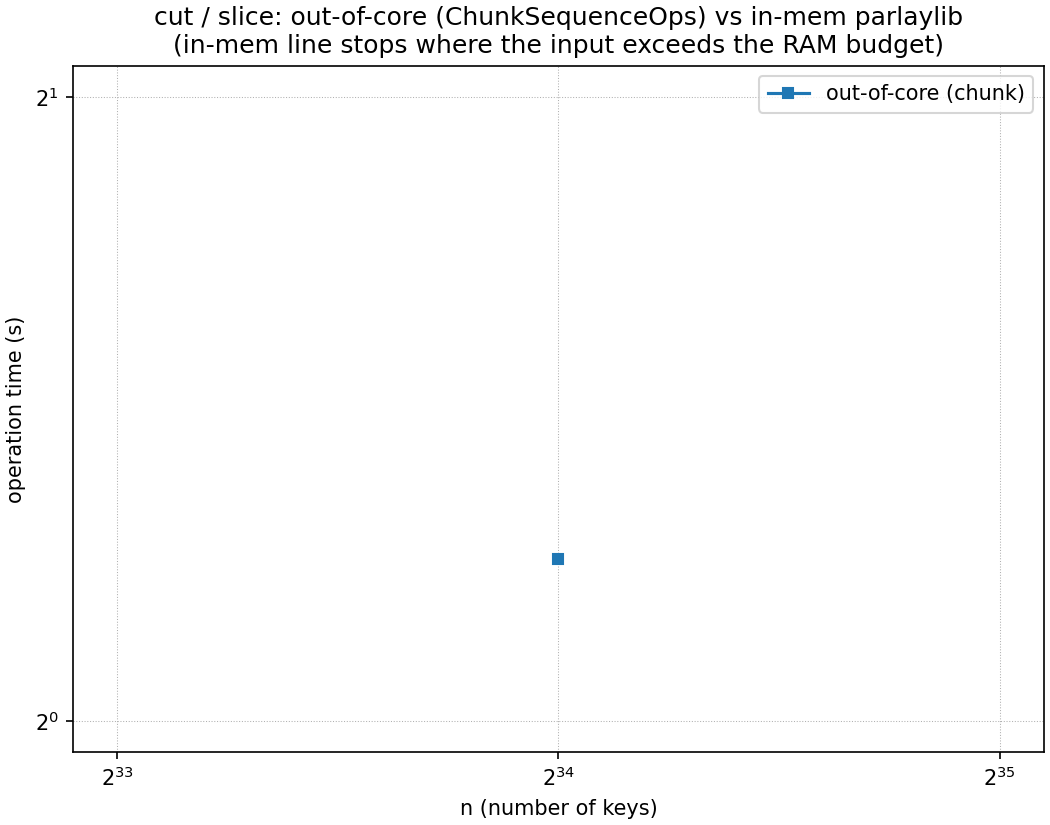
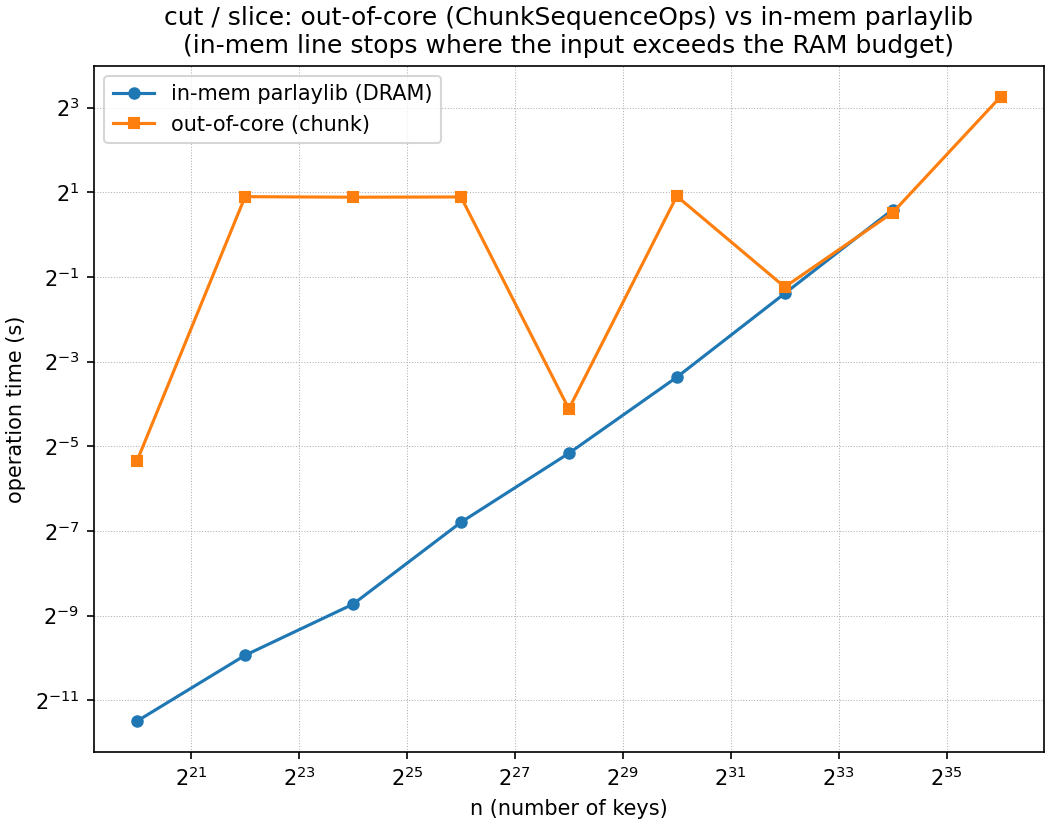
benchmark fix

diff --git a/ChunkSequence/examples/external/chunk_cut.cpp b/ChunkSequence/examples/external/chunk_cut.cpp
@@ -14,7 +14,12 @@
 // Dual-purpose, like the benchmarks and the other examples: prints human-readable
 // results AND a machine-readable "CSV," line that benchmarks/run_benches.py greps.
 // The examples sweep (make bench-examples) times the cut across a sweep of n with
-// the range held at the middle half ([n/4, 3n/4)), so the cut length scales with n.
+// the range held at the middle ~half (k = n/2), so the cut length scales with n.
+// Both endpoints are placed in the MIDDLE of a chunk (offset ELEMS_PER_CHUNK/2),
+// never on a chunk boundary, so every sweep point deterministically exercises the
+// same real seam-rewrite work (see the default computation in main() for why the
+// naive n/4, 3n/4 endpoints alias the chunk grid for power-of-two n and skew the
+// timings).  The in-mem baseline cuts the identical [start, end).
 //
 // Baseline: parlaylib's slice/cut on the same keys in DRAM.  parlay::slice::cut
 // itself is O(1) -- it returns a view, copying nothing -- so timing it alone is
@@ -98,9 +103,31 @@ static std::vector<T> read_in_order(const chunk_seq& seq) {
 
 int main(int argc, char* argv[]) {
     ParseGlobalArguments(argc, argv);
-    const size_t n     = (argc > 1) ? std::stoull(argv[1]) : 1'000'000;
-    const size_t start = (argc > 2) ? std::stoull(argv[2]) : n / 4;
-    const size_t end   = (argc > 3) ? std::stoull(argv[3]) : (3 * n) / 4;
+    const size_t n = (argc > 1) ? std::stoull(argv[1]) : 1'000'000;
+
+    // Default range: the middle ~half of the sequence ([start, end) with k = n/2),
+    // with BOTH endpoints landing in the MIDDLE of a chunk (offset
+    // ELEMS_PER_CHUNK/2) rather than on a chunk boundary.  This is deterministic
+    // regardless of how n aligns to the CHUNK grid.
+    //
+    // Why it matters: the old defaults (n/4, 3n/4) land *exactly* on chunk
+    // boundaries for every power-of-two sweep size >= 2^21 (n/4 is then a multiple
+    // of ELEMS_PER_CHUNK).  A boundary-aligned cut hits a degenerate seam path --
+    // the start seam rewrites a whole chunk and the end seam is an empty (used=0)
+    // chunk -- so it exercises little of the real per-seam read/rewrite work and
+    // its cost jumps around vs. the one non-aligned point (2^20).  Forcing each
+    // seam to split its chunk ~half-half makes every sweep point do the same real
+    // work.  The in-mem baseline below uses this identical [start, end), so both
+    // substrates always cut the same range.
+    constexpr size_t EPC = ELEMS_PER_CHUNK;
+    size_t def_start = (n / 4 / EPC) * EPC + EPC / 2;
+    size_t def_end   = (3 * n / 4 / EPC) * EPC + EPC / 2;
+    if (def_start >= def_end || def_end > n) {   // tiny n: fall back to a valid range
+        def_start = n / 4;
+        def_end   = (3 * n) / 4;
+    }
+    const size_t start = (argc > 2) ? std::stoull(argv[2]) : def_start;
+    const size_t end   = (argc > 3) ? std::stoull(argv[3]) : def_end;
     CHECK(n > 0 && start < end && end <= n)
         << "need 0 <= start < end <= n (n=" << n << ", start=" << start
         << ", end=" << end << ")";

diff --git a/benchmarks/run_benches.py b/benchmarks/run_benches.py
@@ -156,10 +156,14 @@ EXAMPLES = [
      "data_globs": ["bi_a*", "bi_b*", "bi_sum*"]},
 
     # chunk_cutExample sweeps n; the plotted time is the cut itself (input build
-    # excluded).  It cuts the middle half ([n/4, 3n/4)) so the cut length scales
-    # with n.  Baseline is parlaylib's slice::cut materialized into an
-    # independent DRAM sequence; the out-of-core cut symmetrically materializes
-    # the range into fresh on-disk files.  Three file sets: the "cut_in<d>" input,
+    # excluded).  It cuts the middle ~half (k = n/2) with both endpoints in the
+    # MIDDLE of a chunk (never on a chunk boundary), so the cut length scales with
+    # n and every sweep point does the same real seam-rewrite work regardless of
+    # how n aligns to the chunk grid (see chunk_cut.cpp for why naive n/4, 3n/4
+    # endpoints alias the grid for power-of-two n).  Baseline is parlaylib's
+    # slice::cut materialized into an independent DRAM sequence; the out-of-core
+    # cut symmetrically materializes the range into fresh on-disk files.  Three
+    # file sets: the "cut_in<d>" input,
     # "cut_in<d>_cut" seam scratch (matched by "cut_in*"), and the materialized
     # "cut_out<d>" output.
     {"name": "chunk_cut", "target": "bin/chunk_cutExample",